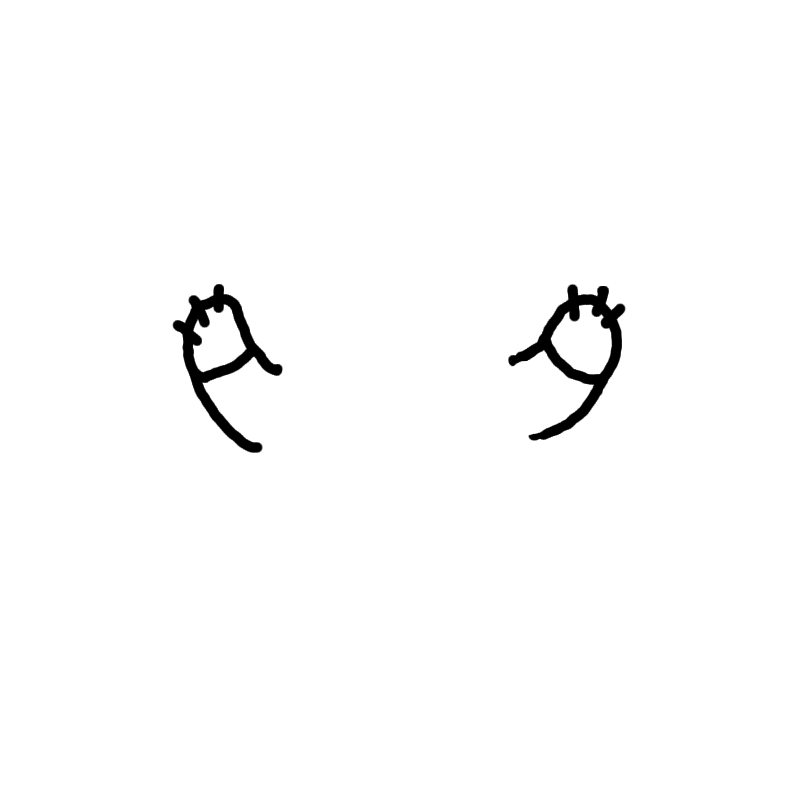
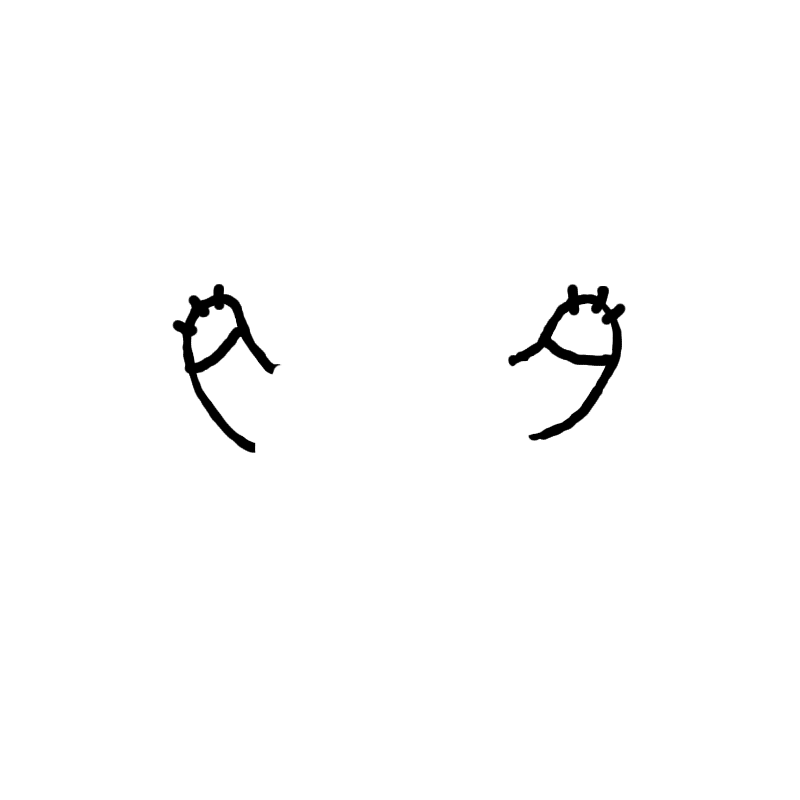
Fixed bear arms

Changed region(s): [[0.6562, 0.375, 0.7812, 0.5], [0.2188, 0.375, 0.375, 0.5]]

diff --git a/buns-app/src/pages/Letters/Letters.js b/buns-app/src/pages/Letters/Letters.js
@@ -5,25 +5,90 @@ import "./Letters.css";
 const posts = [
   {
     id: 1,
-    title: "Letter 1",
+    title: "Open when...",
     image: "letter.png",
-    content: "Open when you are sad",
-    full: <p>TODO</p>,
+    content: "You are feeling sad",
+    full: <div>
+      <p>Dear bun,</p>
+      <p>If you're reading this, I know your heart feels heavy right now. And I want to start by saying — it’s okay. You don’t need to hide your sadness or pretend to be okay for me or anyone else. You're allowed to feel everything you're feeling. Every tear, every ache, every moment where the world feels too loud or too quiet — I want you to know I’m with you in all of it.</p>
+      <p>I wish I could wrap my arms around you right now and let you rest your head on my chest. I'd stroke your hair and remind you how strong you are, even when you don’t feel it. Life can feel unfair, overwhelming, or just... dull sometimes. But sadness will never define you. It’s just like a passing cloud, even when it feels like the whole sky.</p>
+      <p>You are deeply loved — by me, always. And even on days when the sun doesn’t shine in your world, I hope that my love is a constant warmth waiting for you to come home to it. So cry if you need to. Rest if you must. And know that I’ll still be here, arms wide open, and a beary big heart full of love, when you’re ready.</p>
+      <p>You’re never alone, not really.</p>
+      <p>Always yours,</p>
+      <p>- Bear</p>
+  </div>
   },
   {
     id: 2,
-    title: "2",
+    title: "Open when...",
     image: "letter.png",
-    content: "TODO",
-    full: "TODO",
+    content: "You are feeling happy",
+    full: <div>
+      <p>To my sunbun,</p>
+      <p>If you’re reading this, something wonderful must’ve happened — and oh, how that fills my little bear heart with joy! I just want you to pause for a second and feel it. Let the happiness sink in!. Let the happiness do a little dance in your chest.</p>
+      <p>You deserve this moment. Every bit of it. And I hope you know that your happiness makes the whole world better — especially mine. Your smile? It’s my favorite thing. Your joy? It’s contagious. Seeing you happy reminds me why I fell in love with you in the first place — your passion and your lil bun sparkle.</p>
+      <p>So whatever has you smiling — whether it’s big or small — I’m right there with you in spirit, doing a little bear boogie and probably grinning like a fool. Let’s celebrate it all, love. You’ve earned this joy.</p>
+      <p>With smiles,</p>
+      <p>- Bear</p>
+    </div>
   },
   {
     id: 3,
-    title: "3",
+    title: "Open when...",
     image: "letter.png",
-    content: "TODO",
-    full: "TODO",
+    content: "You need motivation ",
+    full: <div>
+      <p>To bunathon,</p>
+      <p>If you’re looking at this note, I know you might be feeling a little stuck, tired, or unsure of yourself. And first, let me say: you’ve already come so far. I know it’s easy to forget that when you're staring down a challenge or wrestling with doubt, but don’t forget who you are - the strongest bun I know!</p>
+      <p>You are incredible. You are capable of pushing through hard things. You’ve done it before, and you’ll do it again. You have this fire in you — maybe it’s burning low today, but I promise it’s still there. I believe in you. I believe in your strength and your resilience.</p>
+      <p>Whatever’s standing in front of you isn’t bigger than the love I have for you — or the love you need to have for yourself. You don’t have to have it all figured out. Just take the next step. Then the next. And know I’m cheering you on, every step of the way.</p>
+      <p>You got this bun!</p>
+      <p>- Bear</p>
+    </div>
   },
+   {
+    id: 4,
+    title: "Open when...",
+    image: "letter.png",
+    content: "You are feeling lonely",
+    full: <div>
+      <p>To my dearest bun,</p>
+      <p>First of all, I want you to know, with all the certainty in my soul, you are not alone. Not ever.</p>
+      <p>Even if I’m not next to you right now, I’m thinking about you. I’m loving you. I’m holding you in my heart. You are with me in everything — in the way I smile at your name, in the thoughts that drift toward you when I hear a song, in the way I picture your face in quiet moments. You’re my person — and that connection doesn’t disappear just because we’re apart.</p>
+      <p>So when you feel that ache, I want you to take a deep breath and imagine my arms around you. I’m here. I love you. I’ve got you. Always. You are seen. You are valued. You are mine — and I am yours, no matter the distance.</p>
+      <p>I love you always,</p>
+      <p>- Bear</p>
+    </div>
+  },
+   {
+    id: 5,
+    title: "Open when...",
+    image: "letter.png",
+    content: "You are feeling scared ",
+    full: <div>
+      <p>Dear bun,</p>
+      <p>Fear has a way of making everything feel bigger — the shadows, the doubts, the "what-ifs." And if you’re afraid right now, I want you to know that it doesn’t make you any less strong. In fact, the very fact that you’re still moving forward, still trying, despite the fear — that makes you brave.</p>
+      <p>You don’t have to face it all alone. Let me be your safe place - I am just a call away. You that you don’t need to have all the answers. You don’t need to feel strong all the time. Sometimes the bravest thing is just saying, “I’m scared,” and letting someone love you through it.</p>
+      <p>Whatever it is, we will face it together. Whether it's a quiet fear or a loud one, I'm here. And no matter what happens next, my love for you won't waver. You’re not just capable — you are powerful. And you have me, always.</p>
+      <p>I’ve always got a spare hand for you to hold,</p>
+      <p>- Bear</p>
+    </div>
+  },
+   {
+    id: 6,
+    title: "Open when...",
+    image: "letter.png",
+    content: "You are feeling excited ",
+    full: <div>
+      <p>To my best bun,</p>
+      <p>Something amazing just happened, didn’t it? I can almost feel your energy from here. I hope you're jumping up and down or maybe doing some happy bun hops — because you deserve to feel every bit of that happiness. I am SO proud of you.</p>
+      <p>Whether it’s a dream coming true, a milestone reached, or just a really good day, I want to be the first person you tell! I want to hear every little detail, because your joy is my joy. Your excitement is contagious — it makes everything brighter.</p>
+      <p>So take a moment to do an excited bun boogie, and know that I’m celebrating too — probably with tears in my eyes, a huge smile on my face, and love in my heart because the person I adore is having a good time.</p>
+      <p>I love you always,</p>
+      <p>- Bear</p>
+    </div>
+  },
+  
 ];
 
 const affirmations = [

diff --git a/buns-app/src/pages/Buildabear/Buildabear.js b/buns-app/src/pages/Buildabear/Buildabear.js
@@ -3,13 +3,21 @@ import "./Buildabear.css";
 
 const avatarSections = {
   lower: ["bare.png", "basic_pants.png", "fanny_pack.png", "formal_pants.png", "sweatpants.png", "underwear.png"],
-  upper: ["bare_upper.png", "lederhosen.png", "royal_cape.png", "suit_and_tie.png", "tshirt.png"],
+  upper: ["bare_upper.png", "lederhosen.png", "royal_cape.png", "suit_and_tie.png", "tshirt.png", "fairy_wings.png"],
   eyes: ["default.png", "happy.png", "sad.png", "sunnies.png"],
-  arms: ["bear_arms_up.png", "bear_arms_down.png", "up_long_sleeve.png", "down_long_sleeve.png", "down_short_sleeve_.png", "up_short_sleeve.png"],
+  arms: ["bear_arms_up.png", "bear_arms_down.png", "up_long_sleeve.png", "down_long_sleeve.png", "down_short_sleeve.png", "up_short_sleeve.png"],
   hat: ["none", "bunny_ears.png", "crown.png", "robin_hood.png", "party_hat.png", "tophat.png"],
 };
 
 const layerOrder = ["lower", "upper", "eyes", "arms", "hat"]; // draw order
+
+const formatLabel = (filename) => {
+  if (filename === "none") return "none";
+  return filename
+    .replace(".png", "")
+    .replace(/_/g, " ")
+};
+
 
 const AvatarCreator = () => {
   const canvasRef = useRef(null);
@@ -75,8 +83,9 @@ const AvatarCreator = () => {
             >
               {avatarSections[section].map(filename => (
                 <option key={filename} value={filename}>
-                  {filename}
+                  {formatLabel(filename)}
                 </option>
+
               ))}
             </select>
           </div>

diff --git a/buns-app/src/pages/Buildabear/Buildabear.css b/buns-app/src/pages/Buildabear/Buildabear.css
@@ -32,3 +32,24 @@
     color: #ff69b4;
   }
   
+
+
+
+  .section select {
+  padding: 0.5rem;
+  border-radius: 10px;
+  border: 2px solid #cc99ff;
+  background-color: #f9f1ff;
+  font-size: 1rem;
+  color: #4b0082;
+  transition: all 0.2s ease;
+  width: 200px;
+   font-family: 'Pixelify Sans', sans-serif;
+}
+
+.section select:hover {
+  border-color: #9933ff;
+  background-color: #f3e0ff;
+  cursor: pointer;
+   font-family: 'Pixelify Sans', sans-serif;
+}

diff --git a/buns-app/src/pages/Home/Home.js b/buns-app/src/pages/Home/Home.js
@@ -16,10 +16,8 @@ function Home() {
     <li>📋 Add missing recipe details</li>
     <li>📝 Add missing poems</li>
     <li>🧩 Add puzzle section</li>
-    <li>🎛 Reformat Build-a-Bear dropdowns</li>
     <li>🐰 Add Build-a-Bun</li>
     <li>🖼 Add image wall</li>
-    <li>📋 Add beary affirmations</li>
   </ul>
   </div>
 );
